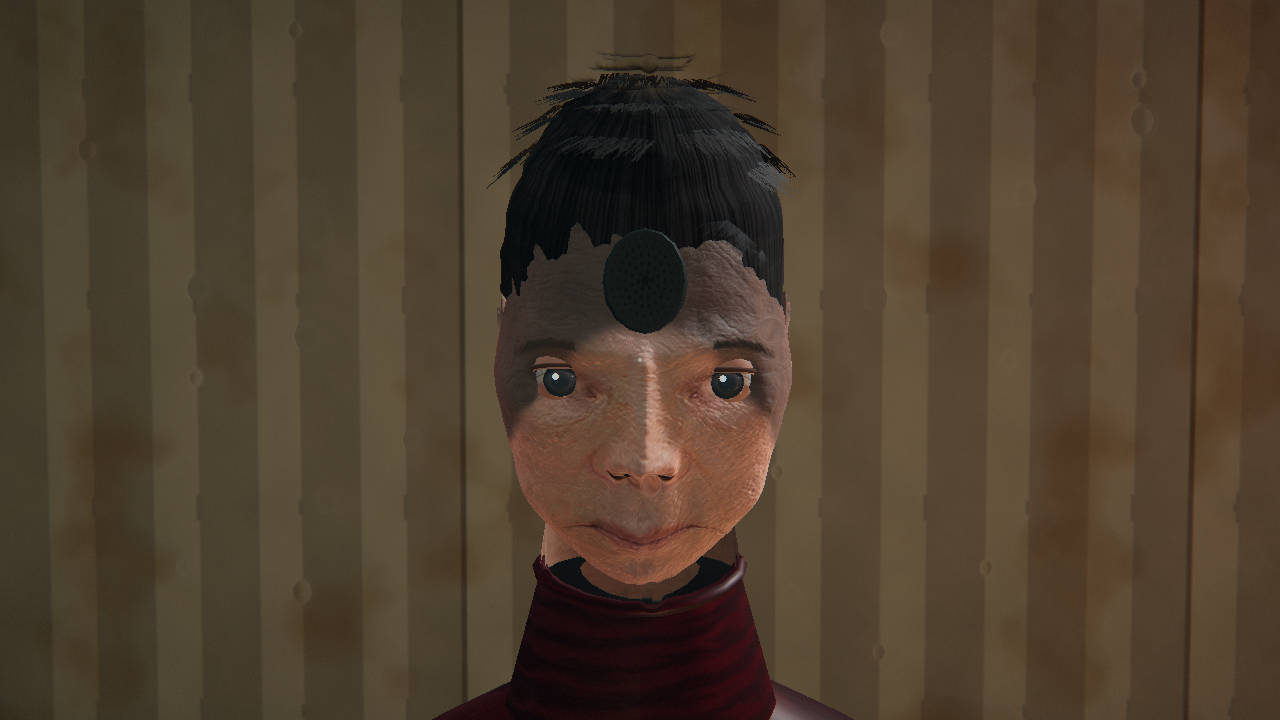
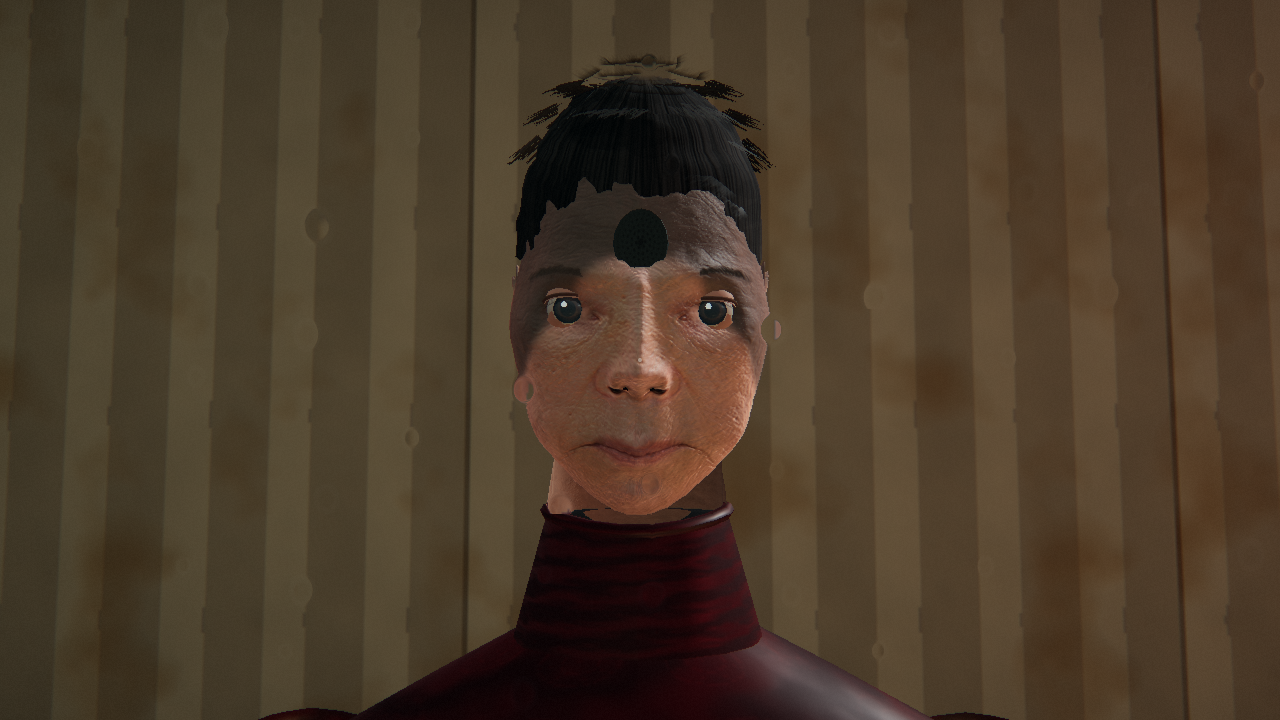
轮24九稿·理册婆第三眼孔板落位：旧盘0.02半径+y0.042顶缘插进刘海——0.6m近景读成穿模道具不是「长在皮里的异物」；缩径0.02/0.022→0.016/0.0175+下移y0.042→0.030+盘面立起(倾角0.24→0.18)贴下额皮面，落在眉心-发际正中露肤带；全套r24九图随新孔板+零离轴机位重拍(单片眼镜伪影确认消失/黑洞洼变水皮/亮窗穿雾/emcee_stage中景HD头)

diff --git a/src/entities/humanoid.js b/src/entities/humanoid.js
@@ -1569,9 +1569,11 @@ function roeSealGeo() {
 /** 理册婆：第三眼矿物孔板（额头正中、眉心上方） */
 function poreplateDiscGeo() {
   return G('poreDisc', () => {
-    const g = new THREE.CylinderGeometry(0.02, 0.022, 0.008, 16);
-    g.rotateX(Math.PI / 2 - 0.24);
-    g.translate(0, 0.042, 0.0925); // 眉心上方的露肤额头（别嵌进发际线）
+    // 轮24九稿：缩径下移——旧 0.02/y0.042 顶缘插进刘海（0.6m 近景读成穿模道具
+    // 而不是「长在皮里的异物」）；缩到 0.016 落在眉心-发际正中的露肤带
+    const g = new THREE.CylinderGeometry(0.016, 0.0175, 0.008, 16);
+    g.rotateX(Math.PI / 2 - 0.18); // 下额更立，盘面跟着立起来贴皮
+    g.translate(0, 0.030, 0.094);
     return g;
   });
 }
